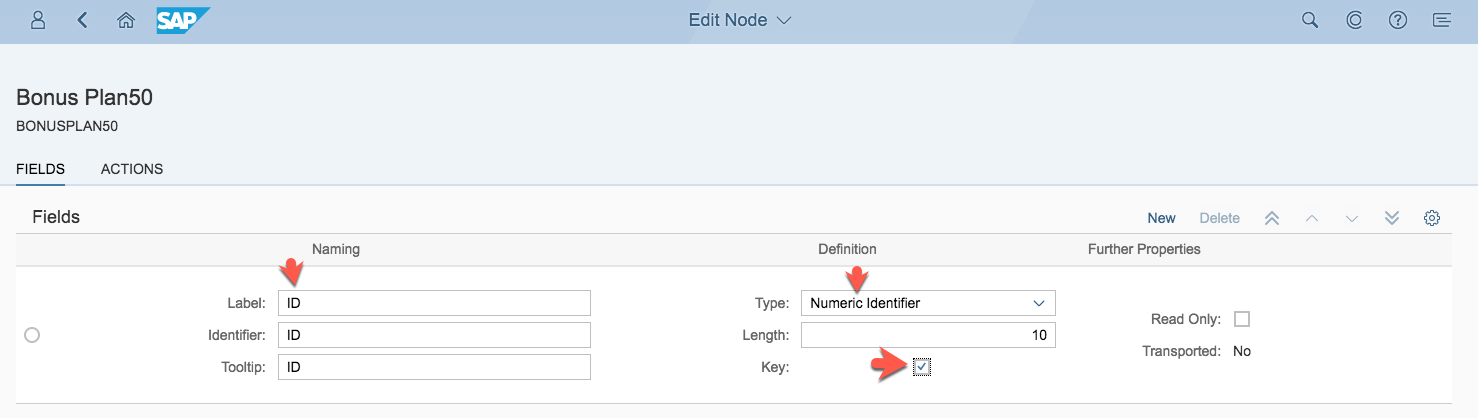
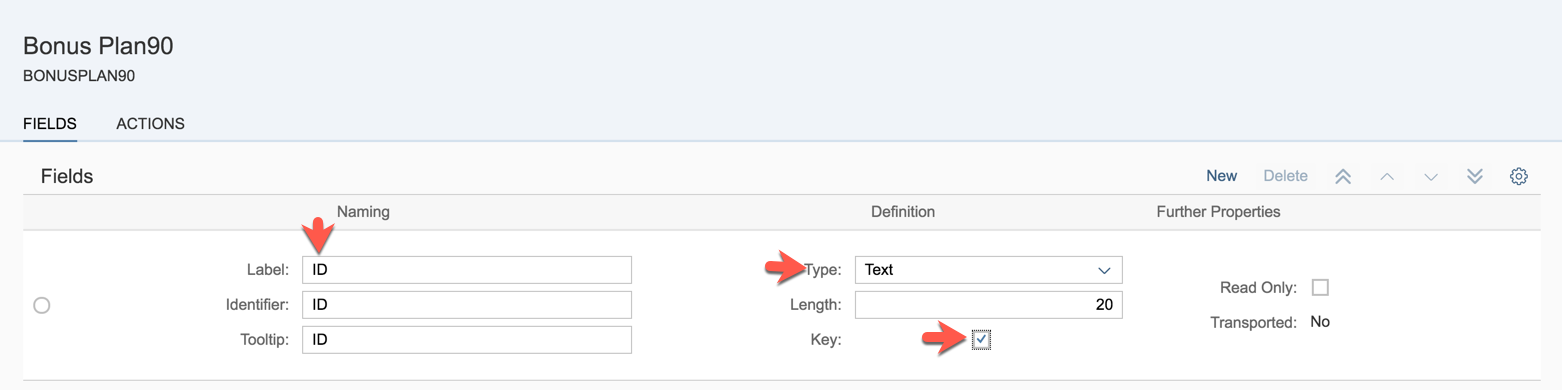
Update Exercise 11

diff --git a/Day1/Exercise_11/Exercise_11.md b/Day1/Exercise_11/Exercise_11.md
@@ -71,7 +71,7 @@ In the first part, a Manager wants to define business objects "Bonus Plan" for e
 
 1. In the following view for editing the custom business object **Go to Fields and Logic** of the root node "Bonus PlanXX".  ![Go to Fields and Logic](images/6.png) 
 1. Click on **New** to create new field for the object. ![Creation Pop Up](images/7.png) 
-1. Enter "ID" for the Naming. Choose "Numeric Identifier" for the Type. Keep 10 for the Length. Check the Key checkbox. ![Creation Pop Up](images/8.png)
+1. Enter "ID" for the Naming. Choose "Text" for the Type. Keep 20 for the Length. Check the Key checkbox. ![Creation Pop Up](images/8.png)
 1. Repeat the above 2 steps to **create** following fields by clicking on **New** for each field.
 
 	| Field Name     | Field Properties             | Tooltip     |
@@ -88,10 +88,9 @@ In the first part, a Manager wants to define business objects "Bonus Plan" for e
 	| Employee ID | Text of length 12  | |
 	| Employee Name | Text of length 40, Read Only   | |
 
-1. The UI for maintaining fields looks as follows. ![Custom Business Object's Field List View](images/9.png)
-1. Go back via the application's **Back** button. 
+1. The UI for maintaining fields looks as follows. ![Custom Business Object's Field List View](images/10.png)
 
-	![Fiori Application's Back Button](images/10.png) 
+1. Go back via the application's **Back** button. 
 
 
 ### <a name="Adding-standard-data-to-the-structure"></a> Adding standard data to the structure
